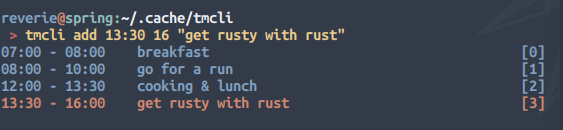
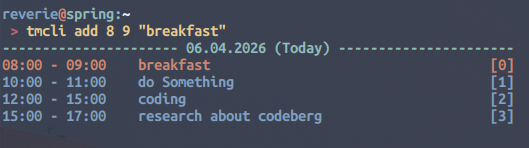
docs: update README.md & demo

Changed region(s): [[0.0, 0.0615, 0.9679, 0.8615], [0.0, 0.7385, 0.2117, 0.8308]]

diff --git a/README.md b/README.md
@@ -16,38 +16,47 @@ cd tmcli
 tmcli add 15:00 18:00 "learn rust"
 ```
 
-the installation script `install.sh` add the build binary to `$HOME/.local/bin/` 
+the installation script `install.sh` adds the build binary to `$HOME/.local/bin/` 
 directory which should already be in your `$PATH` so that it is immediately 
-executable by running `tmcli`.
+executable by running `tmcli`. Similarly, the bash-completion script will be
+installed under your `$XDG_DATA_HOME/bash-completion/completions/` dir.
 
-tmcli mantains a state `state.dat`, which by default is stored persistently in
-your `$XDG_CACHE_HOME/tmcli/` or `$HOME/.cache/tmcli/`. 
+tmcli mantains a state `state-ddmmyyyy.dat`, which by default is stored persistently in
+your `$XDG_CACHE_HOME/tmcli/` dir. 
 
 ## Overview
 ```
- > tmcli
-Usage: tmcli [OPTIONS] COMMAND [ARGS...]
-
-COMMANDS
-  add      START END NAME     Add a new task with starttime START,
-                                 endtime END, and name NAME
-  modify   ID    OBJ VAL      Modify the start- or endtime of an existing task
-  move     ID    VAL          Move existing task to different time
-  delete   ID                 Delete an existing task
-  show                        Show all tasks
-  export                      export to ICS-Format (.ics)
-  reset                       Reset TMCLI's state
-
-OBJECTS
- start                        task's starttime
- end                          task's endtime
+ > tmcli -h
+Usage: tmcli [OPTIONS] [PRE-COMMAND] COMMAND [ARGS...]
 
 OPTIONS
-  -v, --verbose               Enable verbose output
-  -h, --help                  Show this help message
+  -v, --verbose              Enable verbose output
+  -h, --help                 Show this help message
 
-Version  :  0.1.0
+PRE-COMMAND
+  on       DATE              Temporarily set the working date, default is today
+
+COMMAND
+  add      STRT ENDT NAME    Add a new task with start-, endtime, and name
+  modify   T_ID OBJT TIME    Modify the attribute object of an existing task of specified id
+  move     T_ID      TIME    Move anexisting task of a specified id to specified time
+  delete   T_ID              Delete an existing task of a specified id
+  show                       Show all exisiting tasks
+  export                     export all existiing tasks to ICS-Format (.ics)
+  reset                      Reset task-list
+
+OBJECTS
+  start                       task's starttime
+  end                         task's endtime
+  name                        task's name
+
+FORMAT
+  DATE                       D[D.MM.YYYY]
+  TIME                       H[H:MM]
+
+Version  :  v0.2.0
 Author   :  reverie11
+
 ```
 
 ## Demo
@@ -57,7 +66,15 @@ Author   :  reverie11
 
 ![demo3](./screenshots/demo3.png) 
 
+![demo4](./screenshots/demo4.png) 
+
+![demo5](./screenshots/demo5.png) 
+
+
 ## Uninstall
 ```bash
 ./uninstall.sh
 ```
+This script will undo the installation script, except the build. Running 
+`make clean` can do the build cleaning for you, if you want to save up some
+space.
